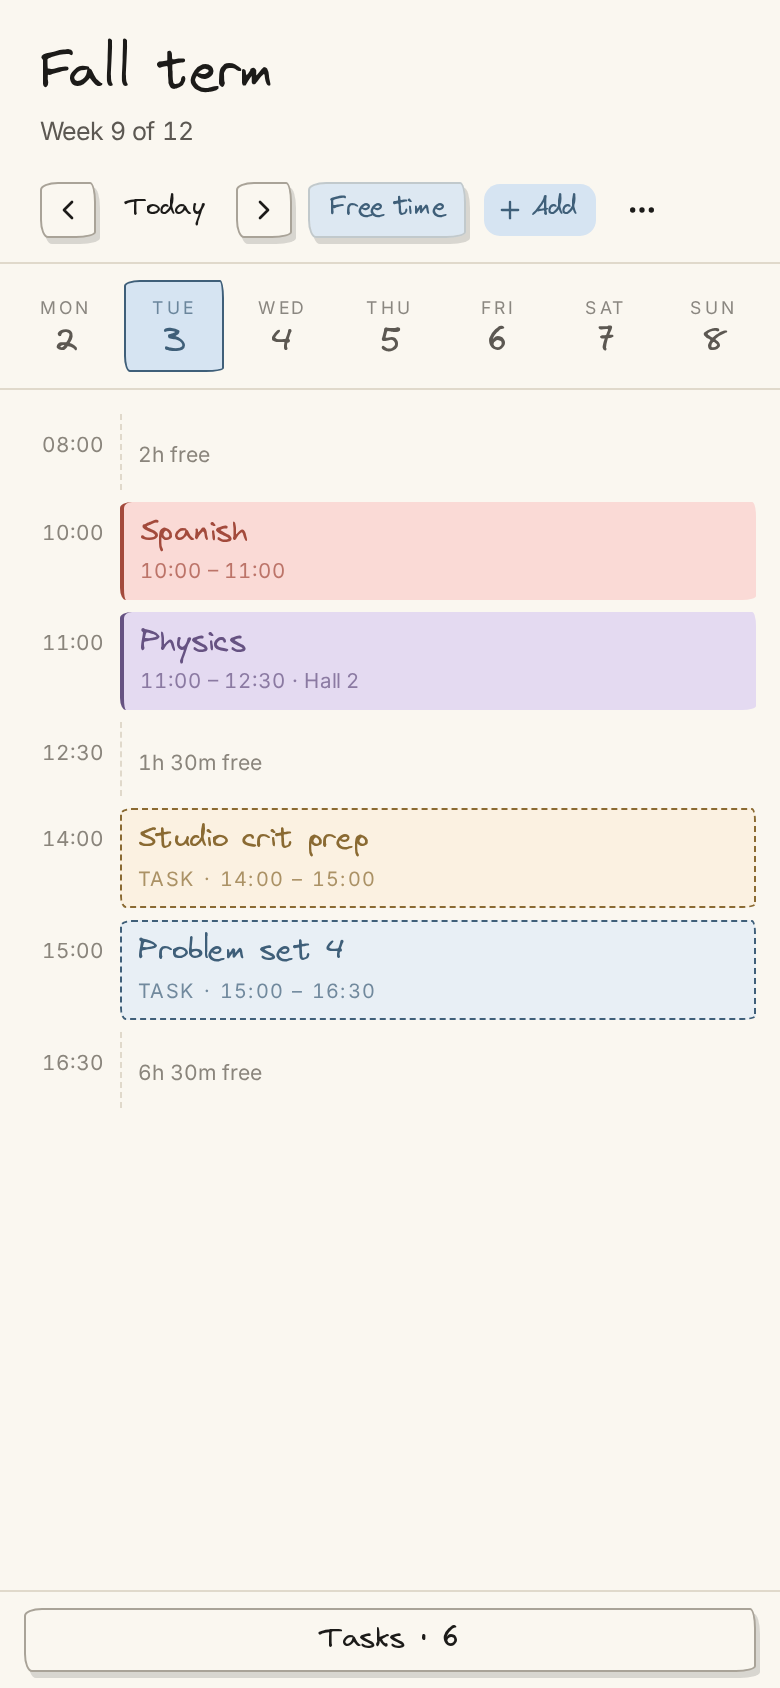
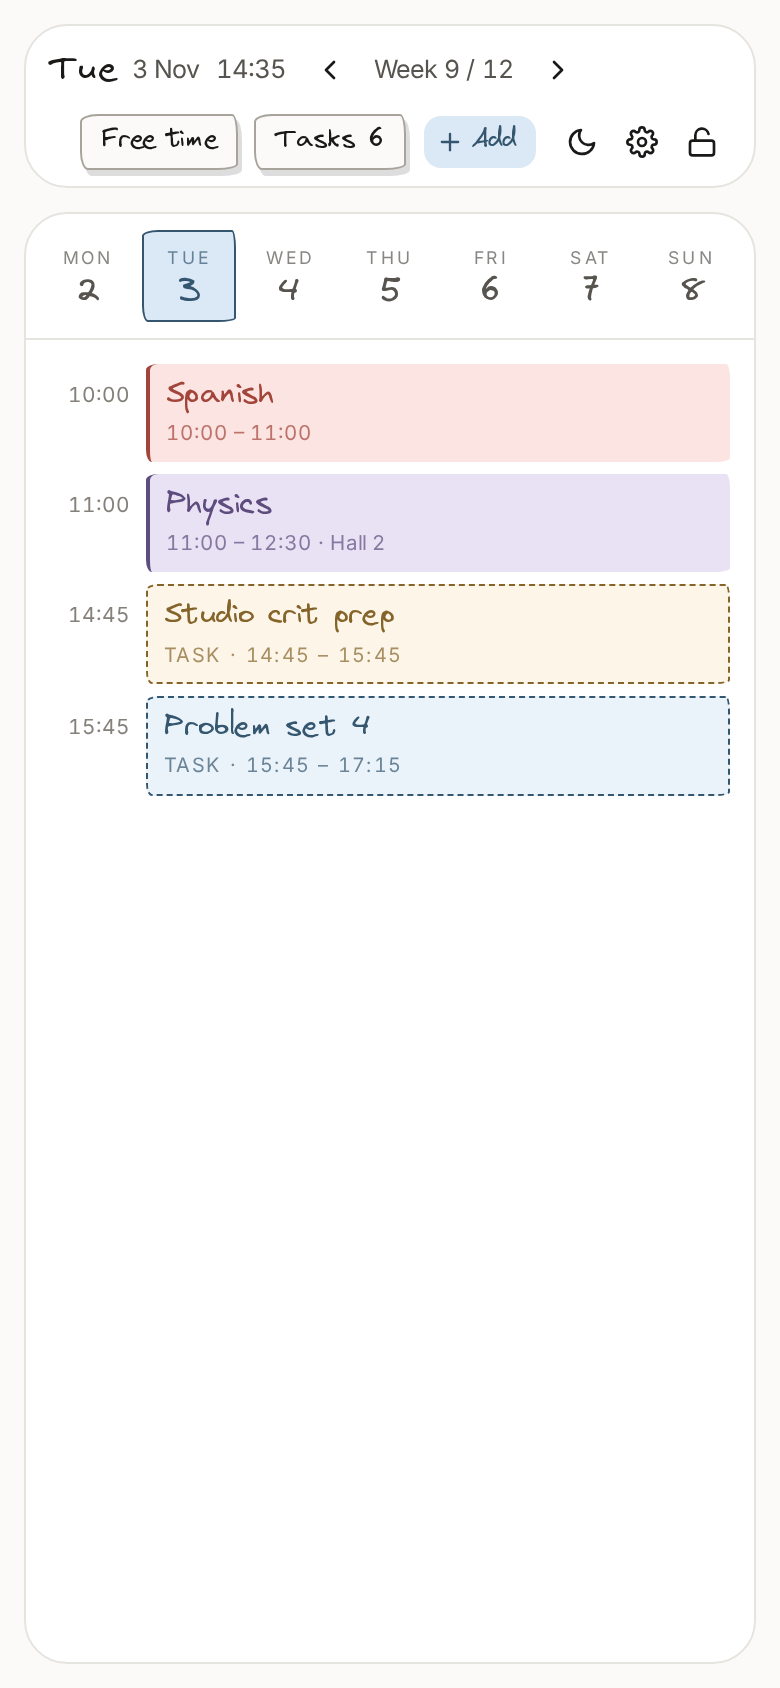
[DOCS] refresh readme and screenshots

diff --git a/README.md b/README.md
@@ -24,24 +24,31 @@ A three-hour lab report due Friday is not "Thursday 14:00–17:00". It is three
 hours of work, a deadline, and a search for somewhere to put it. The app answers
 that search from the gaps between your commitments — and shows you the gaps.
 
+Scheduling work never completes a task. A task stays open until you tick it off,
+however much of it is already on the calendar.
+
 ## What it does
 
 - **Week grid** with recurring sessions, per-week parity (odd/even weeks), and
   term week ranges.
 - **Task panel** grouped by urgency, with a segmented bar showing how much of
-  each task's estimate is already on the calendar.
+  each task's estimate is already placed.
 - **Free time** as a toggle: the gaps get hatched, with a duration in each.
 - **Drag** a task onto the grid to book a session; conflicting drops are
   refused and name what they would overlap.
 - **Find a slot**: every task has a button that places it in the earliest gap
   before its deadline. This is also the keyboard and touch path — dragging is
   mouse-only on purpose.
+- **Calendar lock**: with the lock on, tasks cannot be dragged onto the grid at
+  all, which is what you want when you are just reading the week.
+- **Light and dark** themes that follow the paper metaphor in both directions.
+- **Settings** for the first day of the week (Monday through Sunday), the theme,
+  the lock, and the stored data.
 - **Undo** on every destructive action, from a single snapshot stack.
-- **Print stylesheet** that drops the chrome and puts the week on one page.
+- **Print stylesheet** that drops the chrome, keeps the colours, and puts the
+  week on one page.
 - **Phone layout**: a day strip and agenda list rather than a squeezed grid,
   with tasks in a bottom drawer.
-
-![The phone layout](docs/mobile.png)
 
 ## Running it
 
@@ -53,7 +60,7 @@ npm test           # domain unit tests
 ```
 
 The app seeds a demo term around today's date on first load, so it is never
-empty. **More actions → Reset demo data** restores it.
+empty. **Settings → Reset demo data** restores it.
 
 ## How it fits together
 
@@ -61,15 +68,15 @@ empty. **More actions → Reset demo data** restores it.
 src/
   domain/      pure TypeScript — no React, no Zustand, no browser APIs
   store/       Zustand slices, IndexedDB persistence, scheduling hooks
-  components/  week grid, day agenda, task panel, shadcn primitives
-  routes/      page-level composition
+  components/  week grid, day agenda, task panel, shell, shadcn primitives
+  routes/      week view and settings
   styles/      paper textures, hand-drawn geometry, fonts
 ```
 
 Three rules hold it together:
 
 1. **`domain/` imports nothing from React or the store.** It is pure functions
-   over plain data, which is why 113 tests run in under half a second.
+   over plain data, which is why 118 tests run in under half a second.
 2. **Rules are stored; occurrences are computed.** A recurring class is a rule.
    The block you see in week 7 is derived from it and never persisted, so
    changing a class time updates every future week at once.
@@ -91,7 +98,12 @@ Times are integer minutes from midnight and dates are `YYYY-MM-DD` strings.
 Neither ever passes through `new Date()` for arithmetic — `new Date('2026-11-05')`
 parses as UTC midnight and lands on the previous day west of Greenwich.
 
+Week starts are a setting, so nothing may assume a Monday. Occurrences resolve
+their date by weekday, not by column index.
+
 ## Design notes
+
+![Dark mode](docs/dark.png)
 
 The interface imitates paper: a dot grid, hand-drawn borders, and pastel fills
 paired with darker "pen" tones. Two constraints keep it usable:
@@ -101,8 +113,13 @@ paired with darker "pen" tones. Two constraints keep it usable:
   Inter with tabular figures — a proportional hand font makes a column of times
   jitter.
 - **Pastel fill never carries meaning alone.** Every subject is a `fill`/`pen`
-  pair. The pen tone clears 4.5:1 against its own fill and drives the text and
-  the accent bar, so the timetable still reads in greyscale.
+  pair, defined per theme. The pen tone clears 4.5:1 against its own fill and
+  drives the text and the accent bar, so the timetable still reads in greyscale
+  and stays legible in dark mode.
+
+The three panels — toolbar, calendar, tasks — are separate rounded cards inside
+one padded column, so they share edges and their header rules land on the same
+baseline.
 
 ## Known limits
 
@@ -116,6 +133,6 @@ paired with darker "pen" tones. Two constraints keep it usable:
 ## Stack
 
 Vite · React 19 · TypeScript · React Router · Tailwind v4 · shadcn/ui ·
-Zustand · idb-keyval · dnd-kit · Vitest
+Zustand · idb-keyval · dnd-kit · react-icons · Vitest
 
 Font and licence notes: [ASSETS.md](ASSETS.md).
